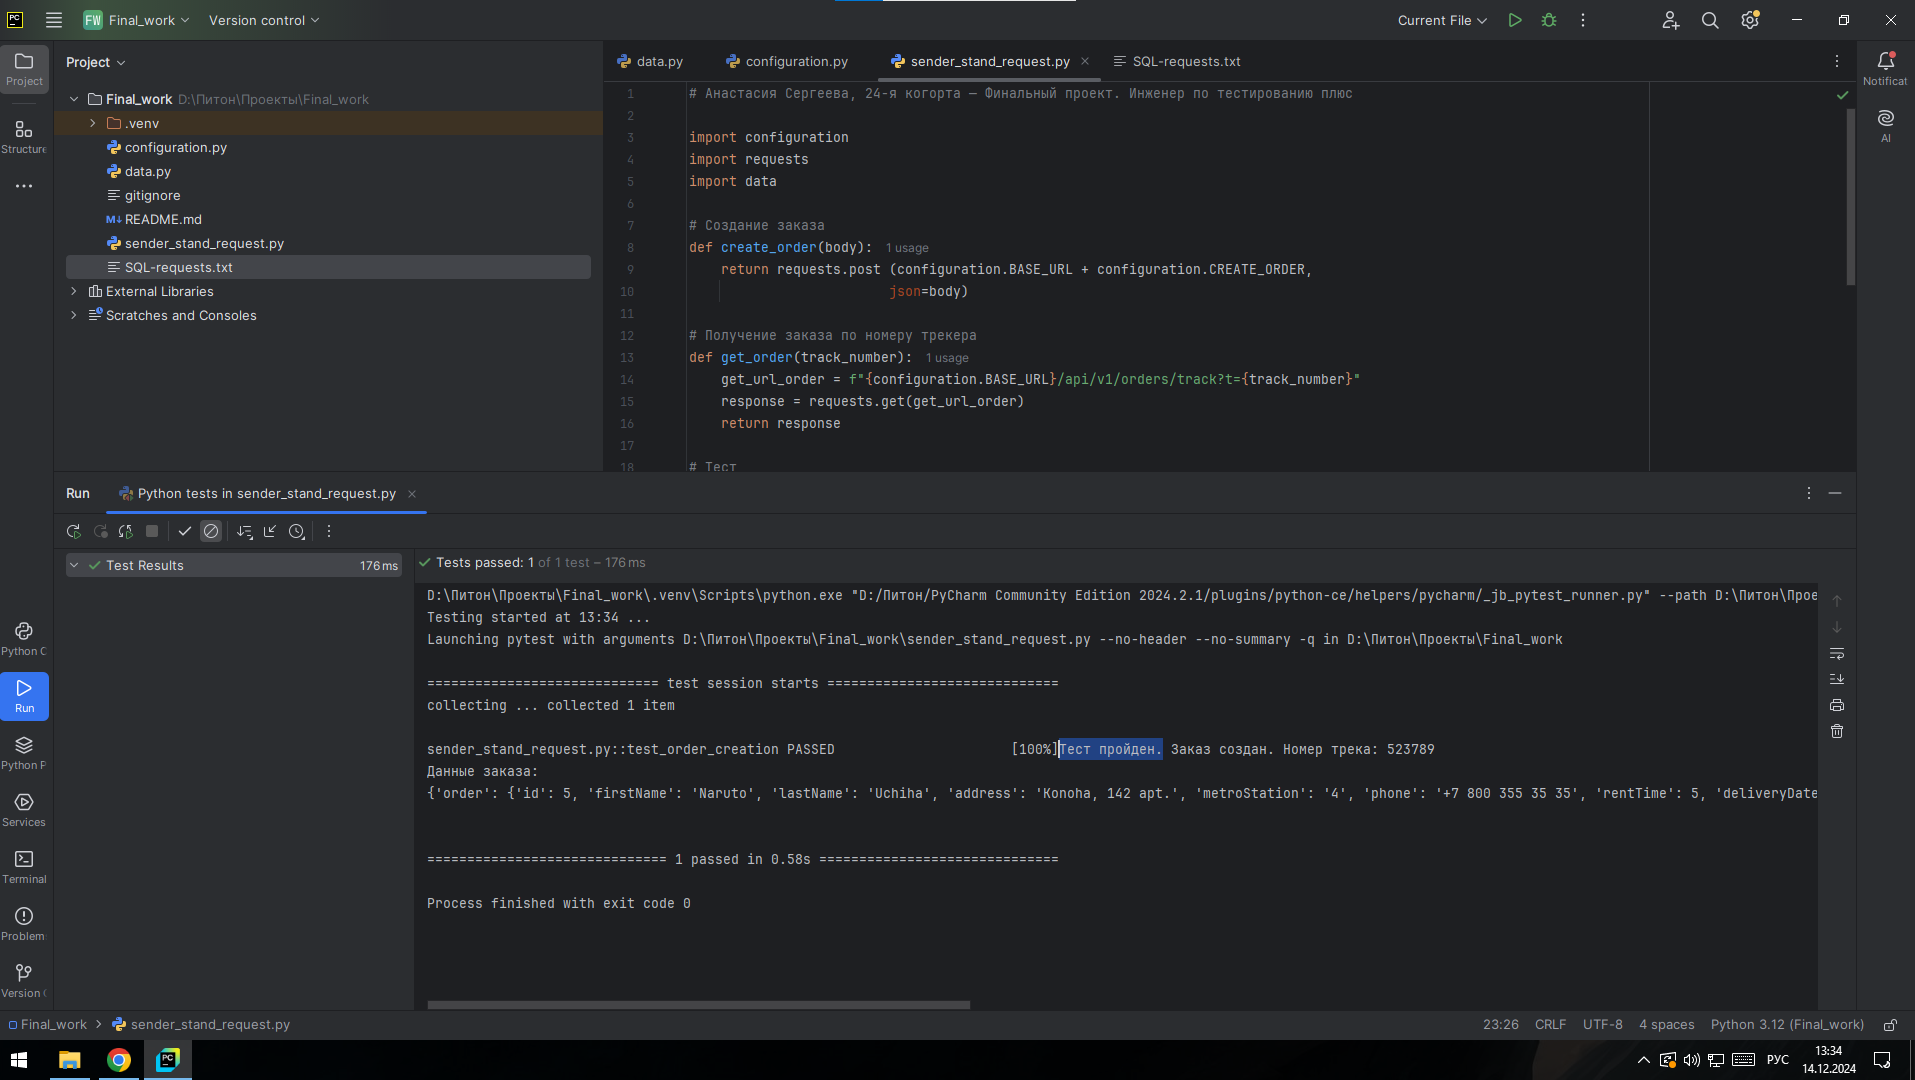
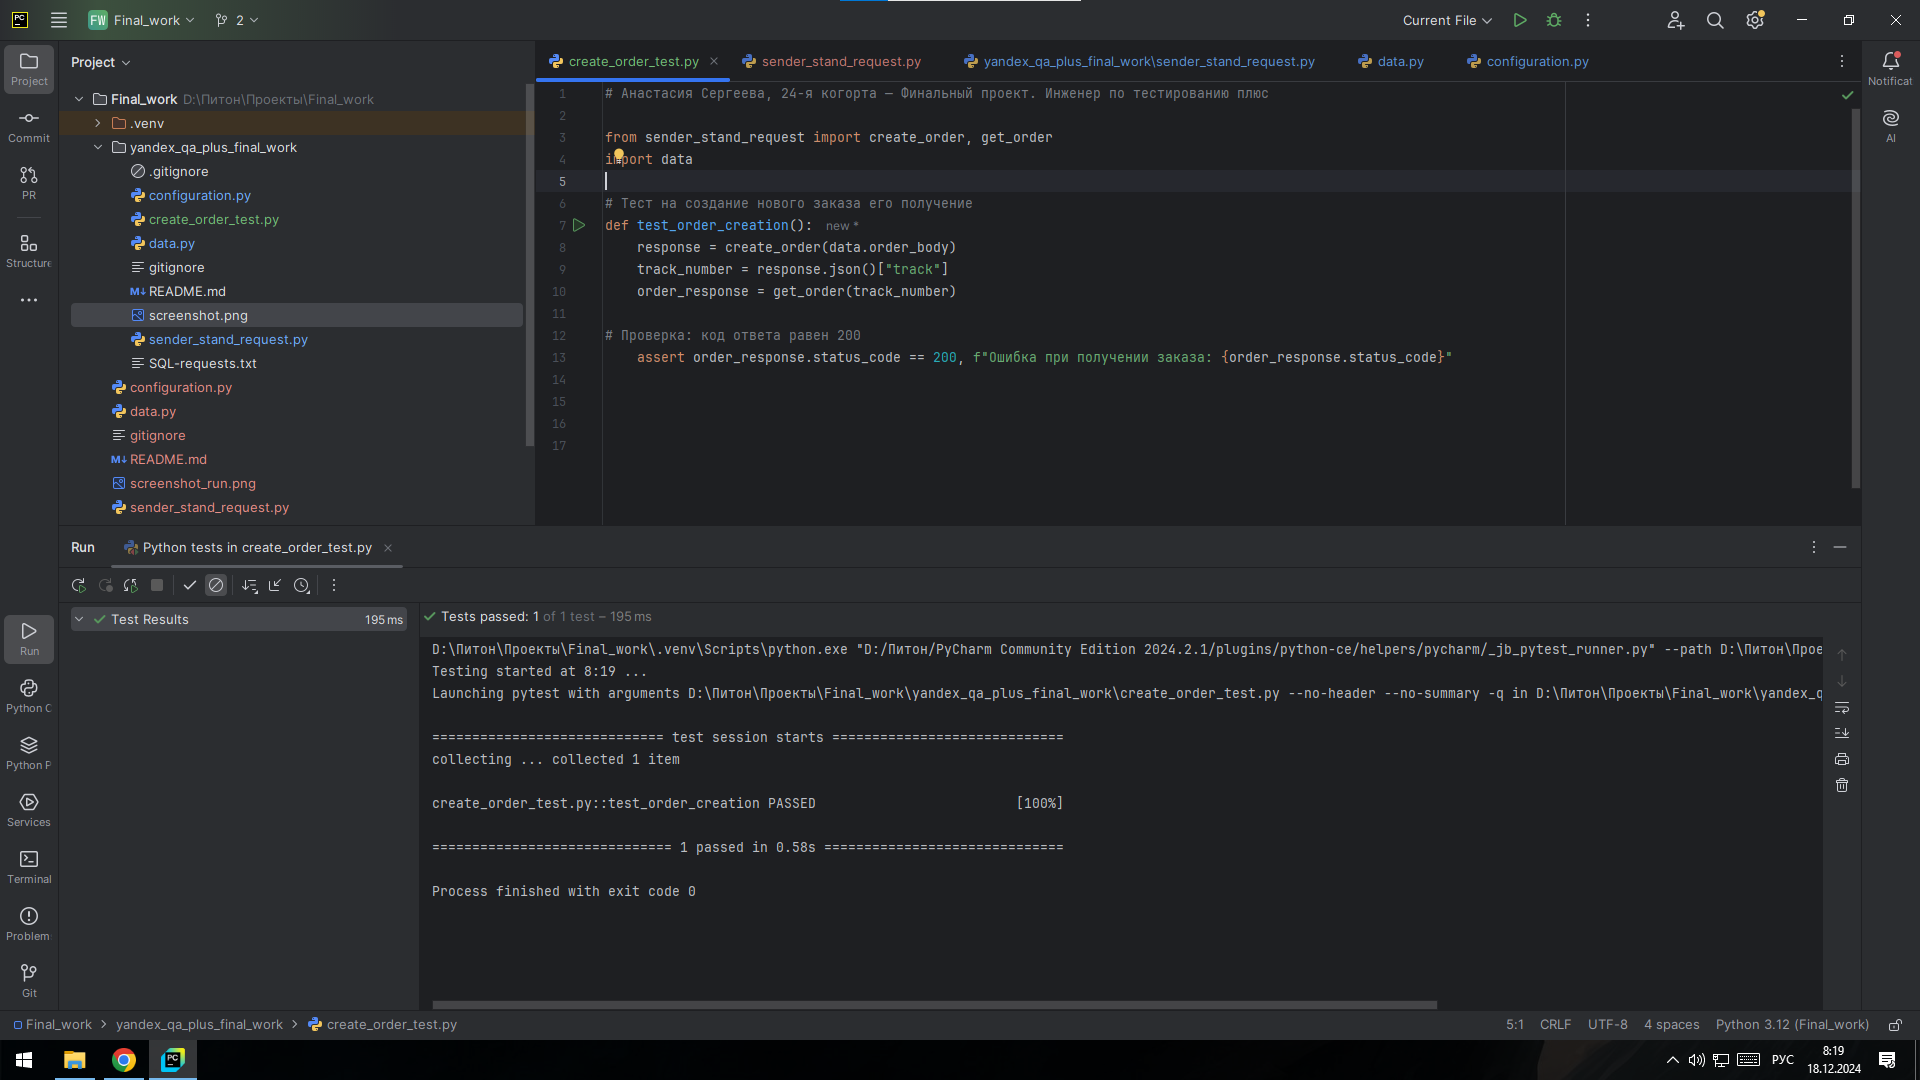
Автотест вынесен в отдельный файл create_order_test. Обновлены SQL-запросы. Обновлен файл configuration. Добавлен новый скриншот отображающий работу теста. Остальные изменения несущественны

diff --git a/sender_stand_request.py b/sender_stand_request.py
@@ -1,31 +1,20 @@
-#    Анастасия Сергеева, 24-я когорта — Финальный проект. Инженер по тестированию плюс
+# Анастасия Сергеева, 24-я когорта — Финальный проект. Инженер по тестированию плюс
 
 import configuration
 import requests
-import data
 
-# Создание заказа
+# Запрос на создание нового заказа
 def create_order(body):
     return requests.post (configuration.BASE_URL + configuration.CREATE_ORDER,
                          json=body)
 
-# Получение заказа по номеру трекера
+# Запрос на получение заказа по сохраненному треку
 def get_order(track_number):
-    get_url_order = f"{configuration.BASE_URL}/api/v1/orders/track?t={track_number}"
-    response = requests.get(get_url_order)
+    url = f"{configuration.BASE_URL}/api/v1/orders/track?t={track_number}"
+    response = requests.get(url)
     return response
 
-# Тест
-def test_order_creation():
-    response = create_order(data.order_body)
 
-    track_number = response.json()["track"]
-    print("Тест пройден. Заказ создан. Номер трека:", track_number)
 
-# Получение данных заказа по треку
-    order_response = get_order(track_number)
 
-    assert order_response.status_code == 200, f"Ошибка: {order_response.status_code}"
-    order_data = order_response.json()
-    print("Данные заказа: ")
-    print(order_data)
+

diff --git a/configuration.py b/configuration.py
@@ -1,7 +1,6 @@
-#    Анастасия Сергеева, 24-я когорта — Финальный проект. Инженер по тестированию плюс
+# Анастасия Сергеева, 24-я когорта — Финальный проект. Инженер по тестированию плюс
 
-BASE_URL = "https://d23df5be-a591-42a7-93b7-907905878e97.serverhub.praktikum-services.ru/" # Ссылка не сервер
-
+BASE_URL = "https://4d8784d2-725b-458c-9ee5-30d273a8ebd1.serverhub.praktikum-services.ru" # Ссылка не сервер
 CREATE_ORDER = "/api/v1/orders" # Хранит путь к API-методу для создания нового заказа
 
 

diff --git a/create_order_test.py b/create_order_test.py
@@ -1,0 +1,16 @@
+# Анастасия Сергеева, 24-я когорта — Финальный проект. Инженер по тестированию плюс
+
+from sender_stand_request import create_order, get_order
+import data
+
+# Тест на создание нового заказа его получение
+def test_order_creation():
+    response = create_order(data.order_body)
+    track_number = response.json()["track"]
+    order_response = get_order(track_number)
+
+# Проверка: код ответа равен 200
+    assert order_response.status_code == 200, f"Ошибка при получении заказа: {order_response.status_code}"
+
+
+

diff --git a/data.py b/data.py
@@ -1,4 +1,4 @@
-#    Анастасия Сергеева, 24-я когорта — Финальный проект. Инженер по тестированию плюс
+# Анастасия Сергеева, 24-я когорта — Финальный проект. Инженер по тестированию плюс
 
 order_body = {
     "firstName": "Naruto",

diff --git a/README.md b/README.md
@@ -1,4 +1,4 @@
-#   Тесты на проверку создания заказа в Яндекс.Самокат  
+# Тесты на проверку создания заказа в Яндекс.Самокат  
 
     Шаги автотеста:
     Выполнить запрос на создание заказа.
@@ -13,4 +13,4 @@
     Пример значения: "https://{id}.praktikum-services.ru"
     BASE_URL = "скопируйте сюда базовый URL веб-сервиса Яндекс.Самокат без слеша в конце"
 
-  - Запуск всех тестов выполянется из файла sender_stand_request нажатием на кнопку "Run 'sender_stand_request.py'" или сочетанием клавиш Shift+F10
+  - Запуск теста выполянется из файла create_order_test нажатием на кнопку "Run 'create_order_test.py'" или сочетанием клавиш Shift+F10
